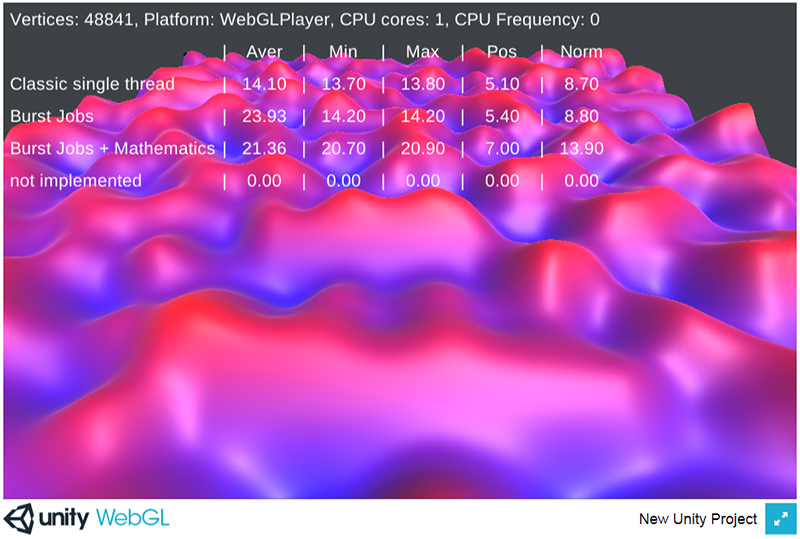
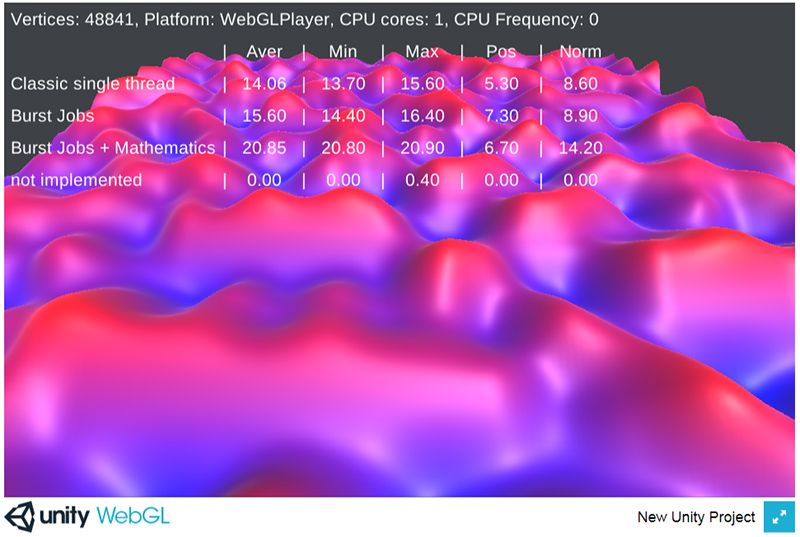
warmup timer, fix table formating, screenshots

diff --git a/MultithreadingBenchmark/Assets/MeshApiTest/Scripts/MeshApiTestBase.cs b/MultithreadingBenchmark/Assets/MeshApiTest/Scripts/MeshApiTestBase.cs
@@ -13,14 +13,14 @@ public class MeshAPITestBase : MonoBehaviour
     public Material mat;
     public float updateMs = 0;
     public float minMs = 0;
-    public float maxMs = 0;
+    public float maxMs = 1000;
     public float averageMs = 0;
     public float positionMs = 0;
     public float normalMs = 0;
     protected int resolution = 220;
     protected Mesh mesh;
 
-
+    int framesCounter = 0;
 
     protected int[] GetTriangles() {
         int quadsCount = resolution * resolution;
@@ -95,9 +95,16 @@ public class MeshAPITestBase : MonoBehaviour
         updateSW = Stopwatch.StartNew();
         positionsw = Stopwatch.StartNew();
         normalssw = Stopwatch.StartNew();
-        minMs = float.MaxValue;
-        maxMs = float.MinValue;
+        minMs = 1000;
+        maxMs = 0;
         averageMs = -1;
+        framesCounter = 0;
+    }
+
+    public bool warmedUp {
+        get {
+            return framesCounter > 3;
+        }
     }
 
     private void Update() {
@@ -109,25 +116,26 @@ public class MeshAPITestBase : MonoBehaviour
         positionMs = positionsw.ElapsedTicks / (float)System.TimeSpan.TicksPerMillisecond;
         positionsw.Reset();
 
-
         normalssw.Start();
         NormalsJob();
         normalssw.Stop();
         normalMs = normalssw.ElapsedTicks / (float)System.TimeSpan.TicksPerMillisecond;
         normalssw.Reset();
 
-
-
         updateMs = updateSW.ElapsedTicks / (float)System.TimeSpan.TicksPerMillisecond;
         updateSW.Stop();
         updateSW.Reset();
-        minMs = Mathf.Min(minMs, updateMs);
-        maxMs = Mathf.Max(minMs, updateMs);
-        if (averageMs < 0) {
-            averageMs = updateMs;
-        } else {
-            averageMs = Mathf.Lerp(averageMs, updateMs, 0.5f);
+        if (warmedUp) {
+            minMs = Mathf.Min(minMs, updateMs);
+            maxMs = Mathf.Max(maxMs, updateMs);
+            if (averageMs < 0) {
+                averageMs = updateMs;
+            } else {
+                averageMs = Mathf.Lerp(averageMs, updateMs, 0.5f);
+            }
         }
+        framesCounter++;
+
         FillMesh();
         if (mesh != null) {
             mesh.bounds = GetBounds();

diff --git a/MultithreadingBenchmark/Assets/MeshApiTest/Scripts/ObjectSwitcher.cs b/MultithreadingBenchmark/Assets/MeshApiTest/Scripts/ObjectSwitcher.cs
@@ -8,7 +8,7 @@ public class ObjectSwitcher : MonoBehaviour
     GUIStyle stylePadLeft;
     GUIStyle styleCenter;
     string headerInfo;
-    public float switchRate = 3;
+    public float switchRate = 4;
 
     [Range(0.5f, 2f)]
     public float uiScale = 1f;
@@ -46,7 +46,11 @@ public class ObjectSwitcher : MonoBehaviour
         GUILayout.Label(headerInfo, stylePadLeft);
         DrawRow(" ", "Aver",  "Min",  "Max", "Pos", "Norm");
         for (int i = 0; i < objs.Length; i++) {
-            DrawRow(objs[i].scriptname, objs[i].averageMs.ToString("F2"), objs[i].minMs.ToString("F2"), objs[i].maxMs.ToString("F2"), objs[i].positionMs.ToString("F2"), objs[i].normalMs.ToString("F2"));
+            if (objs[i].warmedUp) {
+                DrawRow(objs[i].scriptname, objs[i].averageMs.ToString("F2"), objs[i].minMs.ToString("F2"), objs[i].maxMs.ToString("F2"), objs[i].positionMs.ToString("F2"), objs[i].normalMs.ToString("F2"));
+            } else {
+                DrawRow(objs[i].scriptname, "-", "-", "-", "-", "-");
+            }
         }
     }
 

diff --git a/MultithreadingBenchmark/Assets/MeshApiTest/Scripts/ClassicThreadedMeshApi.cs b/MultithreadingBenchmark/Assets/MeshApiTest/Scripts/ClassicThreadedMeshApi.cs
@@ -6,6 +6,7 @@ using Unity.Collections;
 using System.Threading; 
 
 public class ClassicThreadedMeshApi : MeshAPITestBase {
+
 #if !UNITY_WEBGL
     public class TClass {
         private Thread thread;
@@ -25,7 +26,6 @@ public class ClassicThreadedMeshApi : MeshAPITestBase {
         float timer;
         float mult;
         int resolution;
- 
  
 
         public TClass(int idx, int tcount, Vector2Int[] indices, Vector3[] positions, Vector3[] normals, Color[] colors, int resolution) {
@@ -204,7 +204,7 @@ public class ClassicThreadedMeshApi : MeshAPITestBase {
 
     public override string scriptname {
         get {
-            return "Classic Multithreaded";
+            return "Classic Multithreading";
         }
     }
 #endif
